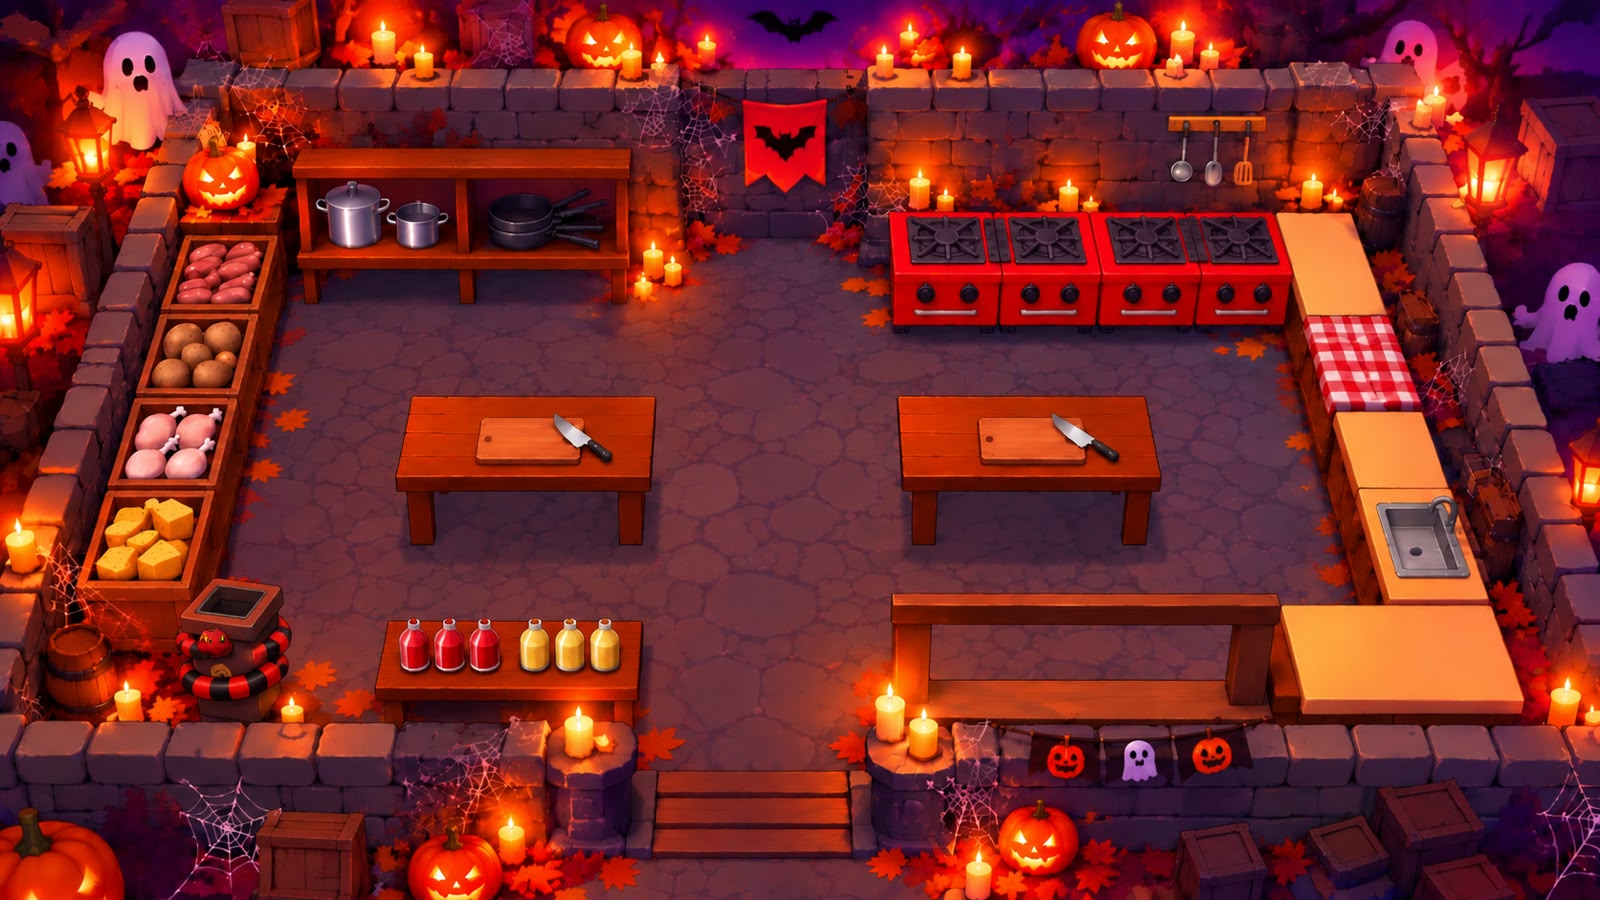
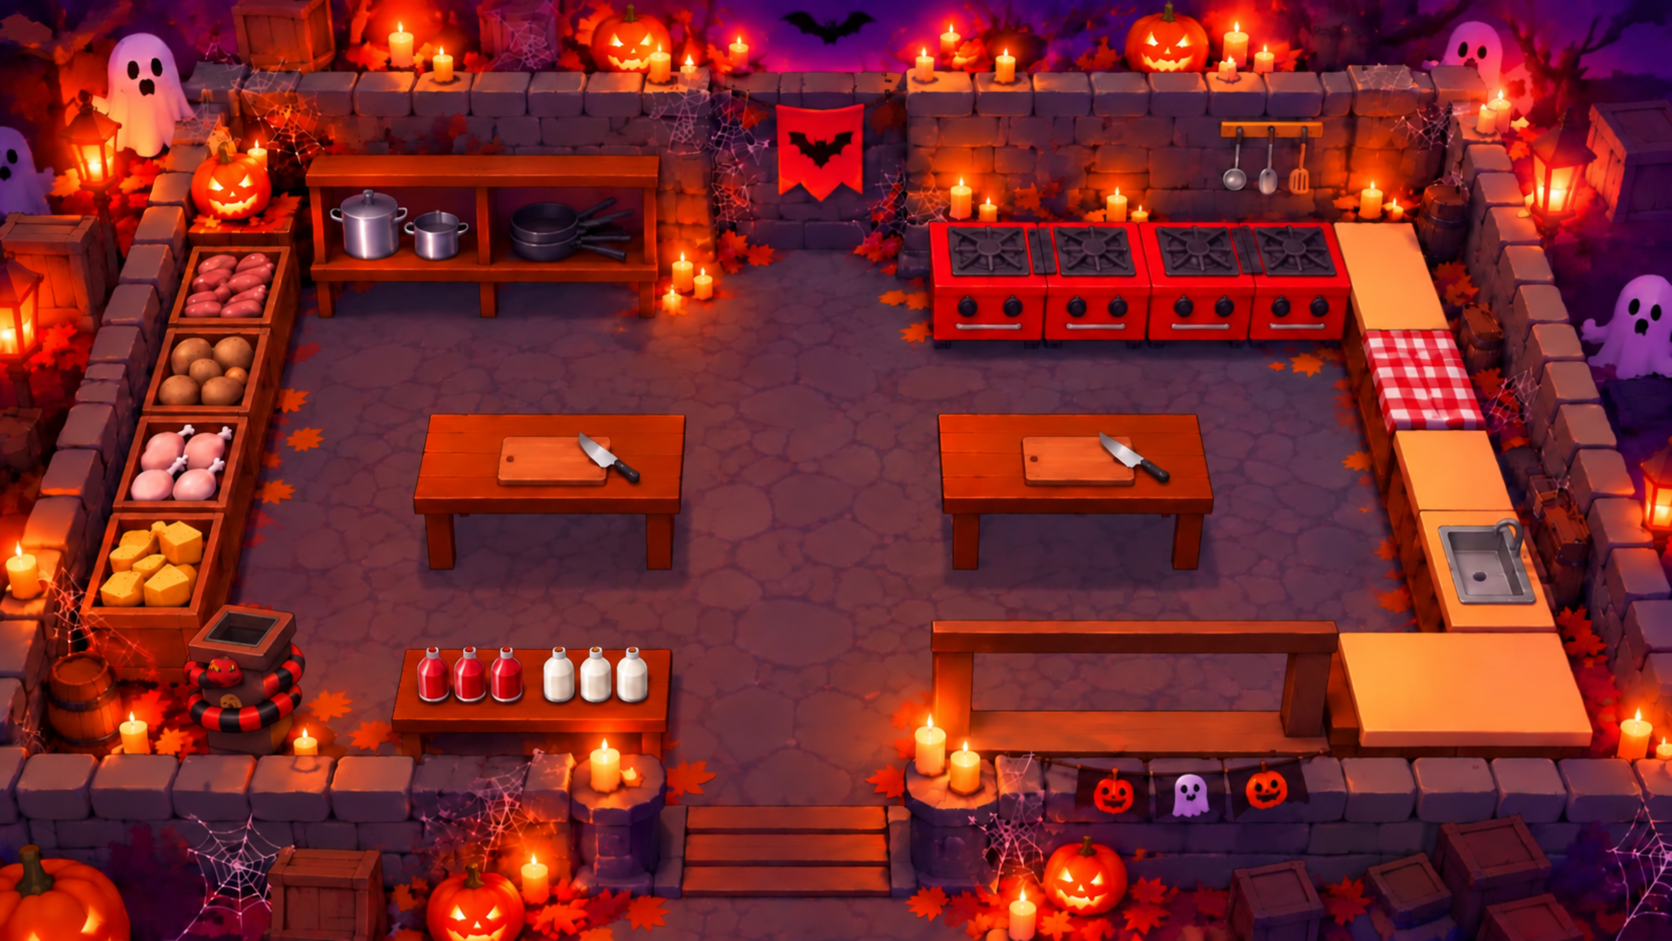
feat: ajustar hotspots y colisiones de niveles 3 y 4

diff --git a/src/KitchenChaos.Server/wwwroot/index.html b/src/KitchenChaos.Server/wwwroot/index.html
@@ -11,7 +11,7 @@
     <link rel="preconnect" href="https://fonts.gstatic.com" crossorigin>
     <link href="https://fonts.googleapis.com/css2?family=Fraunces:wght@600;700&family=Source+Sans+3:wght@400;600;700&family=IBM+Plex+Mono:wght@500;600&display=swap" rel="stylesheet">
 
-    <link rel="stylesheet" href="css/game.css">
+    <link rel="stylesheet" href="css/game.css?v=2">
 
     <style>
         :root {
@@ -683,20 +683,20 @@
                     <button class="station-hotspot ingredient-station station-16" data-ingredient="carne">
                         <span class="station-label">Carne</span>
                     </button>
-                    <button class="station-hotspot ingredient-station station-17" data-ingredient="aguacate">
-                        <span class="station-label">Aguacate</span>
+                    <button class="station-hotspot ingredient-station station-17" data-ingredient="arroz">
+                        <span class="station-label">Arroz</span>
                     </button>
                     <button class="station-hotspot ingredient-station station-18" data-ingredient="platano">
                         <span class="station-label">Plátano</span>
                     </button>
-                    <button class="station-hotspot ingredient-station station-19" data-ingredient="chicharron">
+                    <button class="station-hotspot ingredient-station station-19" data-ingredient="aguacate">
+                        <span class="station-label">Aguacate</span>
+                    </button>
+                    <button class="station-hotspot ingredient-station station-20" data-ingredient="chicharron">
                         <span class="station-label">Chicharrón</span>
                     </button>
-                    <button class="station-hotspot ingredient-station station-20" data-ingredient="huevo">
+                    <button class="station-hotspot ingredient-station station-21" data-ingredient="huevo">
                         <span class="station-label">Huevo</span>
-                    </button>
-                    <button class="station-hotspot ingredient-station station-21" data-ingredient="arroz">
-                        <span class="station-label">Arroz</span>
                     </button>
 
                     <button class="station-hotspot cook-station generic-cook-station">
@@ -709,6 +709,10 @@
 
                     <button class="station-hotspot cook-station boil-station">
                         <span class="station-label">Hervir</span>
+                    </button>
+
+                    <button class="station-hotspot cook-station fry-station-2">
+                        <span class="station-label">Freír</span>
                     </button>
 
                     <button class="station-hotspot plate-station">
@@ -978,19 +982,44 @@
                 [35, 16, 21]
             ],
 
-            // Nivel 4 — pegar dentro de WALKABLE_CELLS en index.html (11 tramo(s))
+            // Nivel 4 — pegar dentro de WALKABLE_CELLS en index.html (36 tramo(s))
             4: [
-                [3, 4, 7],
-                [3, 17, 17],
-                [4, 4, 19],
-                [5, 4, 7],
-                [5, 15, 20],
-                [6, 4, 7],
-                [6, 15, 20],
-                [7, 4, 19],
-                [8, 5, 19],
-                [9, 11, 17],
-                [10, 11, 13]
+                [9, 10, 11],
+                [10, 9, 13],
+                [10, 27, 28],
+                [11, 8, 14],
+                [11, 27, 29],
+                [12, 5, 5],
+                [12, 7, 14],
+                [12, 24, 30],
+                [13, 5, 31],
+                [14, 6, 32],
+                [15, 6, 12],
+                [15, 25, 33],
+                [16, 6, 12],
+                [16, 25, 33],
+                [17, 6, 12],
+                [17, 25, 33],
+                [18, 7, 12],
+                [18, 25, 33],
+                [19, 7, 12],
+                [19, 25, 33],
+                [20, 7, 12],
+                [20, 25, 33],
+                [21, 7, 32],
+                [22, 8, 32],
+                [23, 10, 32],
+                [24, 12, 30],
+                [25, 18, 24],
+                [26, 18, 21],
+                [27, 18, 21],
+                [28, 18, 21],
+                [29, 18, 21],
+                [30, 18, 21],
+                [31, 18, 21],
+                [32, 18, 21],
+                [33, 18, 21],
+                [34, 18, 21]
             ],
         };
 
@@ -1062,10 +1091,10 @@
                 { x: 75, y: 61 }
             ],
             4: [
-                { x: 22, y: 32 },
-                { x: 78, y: 32 },
-                { x: 26, y: 61 },
-                { x: 76, y: 61 }
+                { x: 27, y: 32 },
+                { x: 72, y: 32 },
+                { x: 27, y: 61 },
+                { x: 72, y: 61 }
             ]
         };
 
@@ -1865,7 +1894,7 @@
                 return;
             }
 
-            levelMap.src = maps[level];
+            levelMap.src = maps[level] + "?v=2";
             levelMap.alt = "Nivel " + level;
 
             const board = document.querySelector(".game-board");
@@ -1873,11 +1902,11 @@
             board.classList.add("level-" + level);
 
             // Limpiar estilos inline de todos los ingredient-station para que el CSS tome control
-            document.querySelectorAll(".ingredient-station).forEach(function(h) {
- h.style.display = ";
-                h.style.pointerEvents = ";
- h.onclick = null;
- });
+            document.querySelectorAll(".ingredient-station").forEach(function (h) {
+                h.style.removeProperty("display");
+                h.style.removeProperty("pointer-events");
+                h.onclick = null;
+            });
         }
 
 

diff --git a/src/KitchenChaos.Server/wwwroot/css/game.css b/src/KitchenChaos.Server/wwwroot/css/game.css
@@ -373,8 +373,8 @@
 
 /* Nivel 3 — Salchipapa: salchicha, papa, pollo, queso, salsa roja, salsa blanca */
 .level-3 .station-9 {
-    left: 11%;
-    top: 26%;
+    left: 12%;
+    top: 28%;
     width: 5%;
     height: 8%;
 }
@@ -387,15 +387,15 @@
 }
 
 .level-3 .station-11 {
-    left: 8%;
+    left: 9%;
     top: 45%;
     width: 5%;
     height: 8%;
 }
 
 .level-3 .station-12 {
-    left: 6%;
-    top: 58%;
+    left: 7%;
+    top: 55%;
     width: 5%;
     height: 8%;
 }
@@ -451,57 +451,57 @@
 
 /* Nivel 4 — Bandeja paisa: frijoles, carne, aguacate, platano, chicharron, huevo */
 .level-4 .station-15 {
-    left: 8%;
-    top: 31%;
+    left: 9%;
+    top: 34%;
     width: 5%;
-    height: 7%;
+    height: 6%;
 }
 
 .level-4 .station-16 {
     left: 10%;
-    top: 38%;
+    top: 40%;
     width: 5%;
-    height: 7%;
+    height: 6%;
 }
 
 .level-4 .station-17 {
     left: 12%;
     top: 46%;
     width: 5%;
-    height: 7%;
+    height: 6%;
 }
 
 .level-4 .station-18 {
     left: 14%;
-    top: 54%;
+    top: 53%;
     width: 5%;
-    height: 7%;
+    height: 6%;
 }
 
 .level-4 .station-19 {
-    left: 31%;
-    top: 66%;
-    width: 5%;
-    height: 7%;
+    left: 30%;
+    top: 64%;
+    width: 4%;
+    height: 6%;
 }
 
 .level-4 .station-20 {
-    left: 38%;
-    top: 66%;
-    width: 5%;
-    height: 7%;
+    left: 35%;
+    top: 64%;
+    width: 4%;
+    height: 6%;
 }
 
 .level-4 .station-21 {
-    left: 45%;
-    top: 66%;
-    width: 5%;
-    height: 7%;
+    left: 40%;
+    top: 65%;
+    width: 4%;
+    height: 6%;
 }
 
 .level-4 .plate-station {
     left: 87%;
-    top: 36%;
+    top: 37%;
     width: 6%;
     height: 8%;
 }
@@ -515,14 +515,14 @@
 
 .level-4 .delivery-station {
     left: 58%;
-    top: 67%;
+    top: 66%;
     width: 16%;
     height: 10%;
 }
 
 .level-4 .trash-station {
     left: 18%;
-    top: 63%;
+    top: 58%;
     width: 4%;
     height: 7%;
 }
@@ -541,18 +541,34 @@
     display: block;
 }
 
+.fry-station-2 {
+    display: none;
+}
+
+.level-4 .fry-station-2 {
+    display: block;
+}
+
+
 .level-4 .boil-station {
     left: 74%;
-    top: 18%;
-    width: 7%;
-    height: 7%;
+    top: 21%;
+    width: 5%;
+    height: 5%;
 }
 
 .level-4 .fry-station {
-    left: 80%;
-    top: 23%;
-    width: 7%;
-    height: 7%;
+    left: 79%;
+    top: 25%;
+    width: 5%;
+    height: 5%;
+}
+
+.level-4 .fry-station-2 {
+    left: 83%;
+    top: 29%;
+    width: 5%;
+    height: 5%;
 }
 
 .stations-box {
